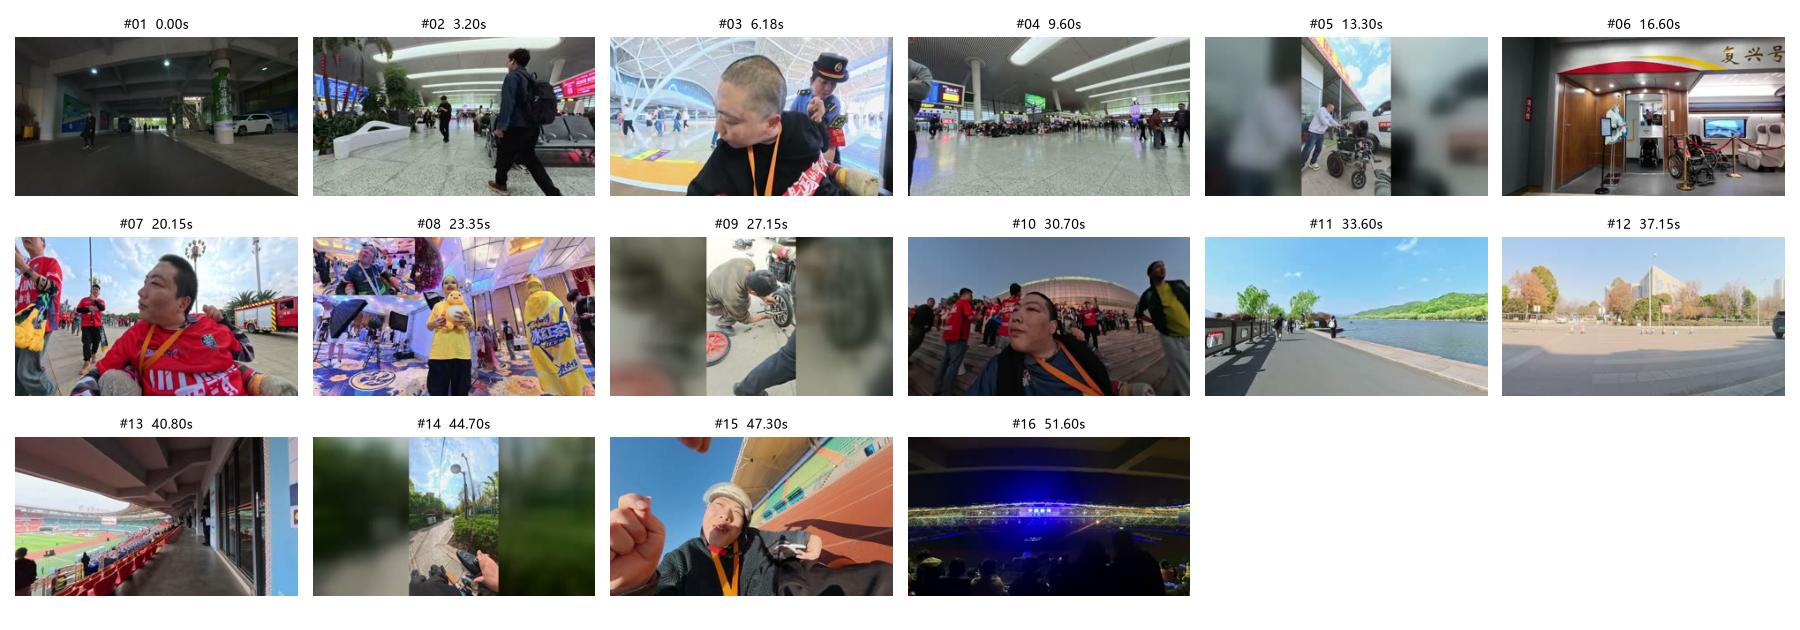
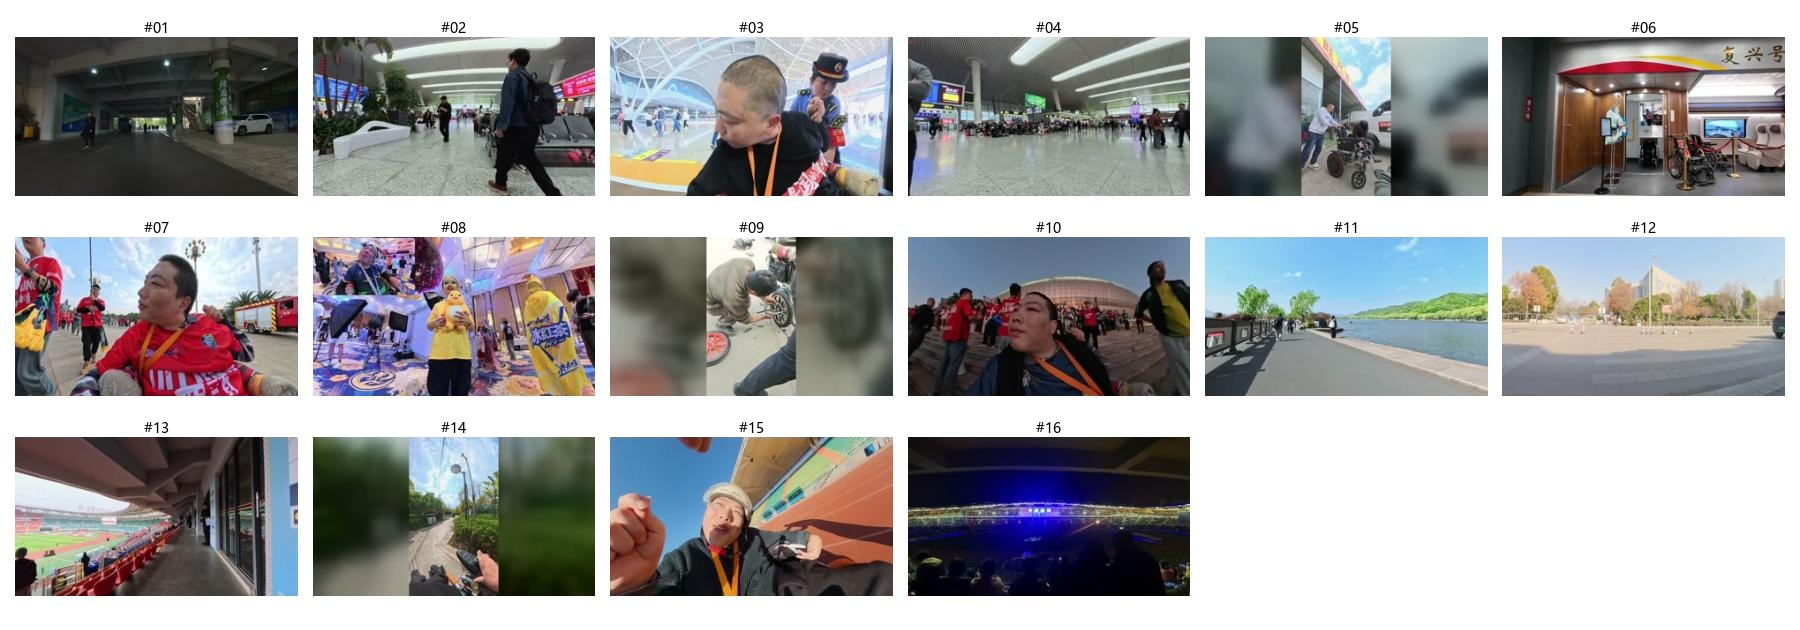
sheets: number-only captions; drop remaining drive-letter font paths

diff --git a/skills/lyric-onset-montage/scripts/check_cut.py b/skills/lyric-onset-montage/scripts/check_cut.py
@@ -198,8 +198,9 @@ def first_frames(video, cuts, out, cols=6, fps=30):
     import matplotlib.pyplot as plt
     try:
         from matplotlib import font_manager
-        if os.path.exists("C:/Windows/Fonts/msyh.ttc"):
-            font_manager.fontManager.addfont("C:/Windows/Fonts/msyh.ttc")
+        _f = os.path.join(os.environ.get("WINDIR", ""), "Fonts", "msyh.ttc")
+        if os.path.exists(_f):
+            font_manager.fontManager.addfont(_f)
         plt.rcParams["font.sans-serif"] = ["Microsoft YaHei"]
     except Exception:
         pass
@@ -225,7 +226,7 @@ def first_frames(video, cuts, out, cols=6, fps=30):
         ax.axis("off")
         if k < len(cuts) and paths[k]:
             ax.imshow(plt.imread(paths[k]))
-            ax.set_title(f"#{k + 1:02d}  {cuts[k]:.2f}s", fontsize=9)
+            ax.set_title(f"#{k + 1:02d}", fontsize=11)
     fig.tight_layout()
     fig.savefig(out, dpi=100)
     plt.close(fig)

diff --git a/skills/lyric-onset-montage/SKILL.md b/skills/lyric-onset-montage/SKILL.md
@@ -35,7 +35,7 @@ metadata:
 6. **合曲用单轨 + 显式 `-t {总时长}`**，禁用 `-shortest`；用原始音频（48k 立体声），不用分析用的 16k 单声道。
 7. **竖屏进横版垫模糊底**，不留黑边、不硬裁。压暗后量两侧各 300px 的均值：15–110 才算「垫底在、又不抢主体」，接近 0 就是压过头。
 8. **不用静止照片充镜头。** 同一条素材隔 3 秒两帧完全一样 = 照片。
-9. **分镜编号从 1 起，图上与表上同号。** 报改动用「秒数 + 画面」，不报刀号。
+9. **分镜编号从 1 起，图上与表上同号。** 图注只写 `#01` 这样的编号，**不写秒数**（秒数留在镜头表，图是给人点名用的）。报改动用「秒数 + 画面」，不报刀号。
 10. **改片 = 最小改动。** 只改被点名的行、只重切那几刀，其余切片复用；交付附「其余没动」的证据。
 11. **候选不是单方案。** 每段 3–4 首选 + 3–6 备选，返工只换素材、不动时间轴。
 12. **交付边生成边落盘**：成片一出来就把分镜首帧、镜头表拷进交付目录；运行被截断时手上至少是成套的。

diff --git a/showcase/证据图例.md b/showcase/证据图例.md
@@ -24,8 +24,9 @@
 ## 三条通用规则
 
 1. **可复现**：所有证据都要能指回帧号、数值、文件名，不用形容词。
-2. **同号**：图上的编号必须与镜头表同号。曾经图注 `#00` 起、表号 `#1` 起，差 1 导致用户报 6 刀、改错 4 刀，白出一版。
-3. **内部分工**：包络尺子图只给自己核对，**不进交付**。交付＝成片 + 首帧图 + 镜头表 + 自检报告。
+2. **编号**：图注只写 `#01` 这样的编号，不带秒数——秒数留在镜头表里。
+3. **同号**：图上的编号必须与镜头表同号。曾经图注 `#00` 起、表号 `#1` 起，差 1 导致用户报 6 刀、改错 4 刀，白出一版。
+4. **内部分工**：包络尺子图只给自己核对，**不进交付**。交付＝成片 + 首帧图 + 镜头表 + 自检报告 + `改动台.html`。
 
 ## 生成方式
 
